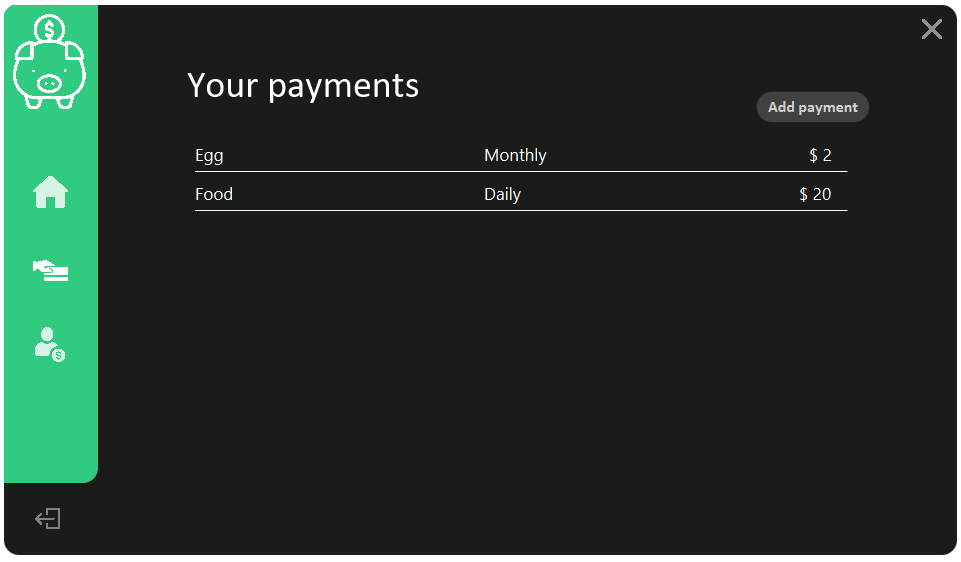
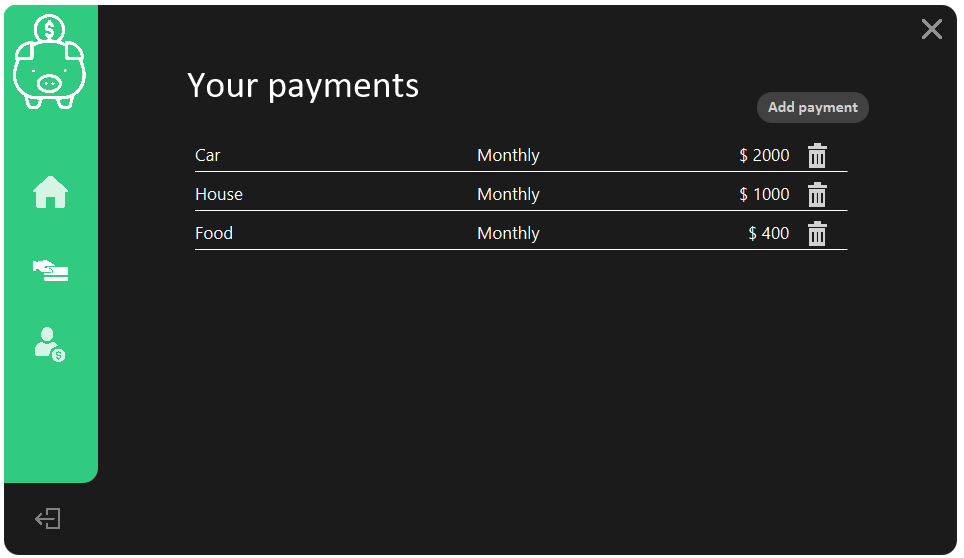
The user can now delete payments. Fixed a bug where it didn't calculate the correct "how much you should save" (it also takes your current balance into account)

diff --git a/src/css/payment.css b/src/css/payment.css
@@ -61,3 +61,12 @@
 .root{
     -fx-background-color: #1b1b1b;
 }
+
+#deletePayment{
+    -fx-opacity: 0.8;
+}
+
+#deletePayment:hover{
+    -fx-opacity: 1;
+    -fx-cursor: hand;
+}

diff --git a/src/UserSettings.java b/src/UserSettings.java
@@ -92,26 +92,6 @@ public class UserSettings {
         return payments;
     }
 
-    public void switchHome() throws IOException {
-        Scene main = new Scene(FXMLLoader.load(getClass().getResource("fxml/MainPage.fxml")));
-        main.getStylesheets().add("css/mainpage.css");
-        main.setFill(javafx.scene.paint.Color.TRANSPARENT);
-        Controller.stage.setScene(main);
-    }
-
-    public void switchPayment() throws IOException {
-        Scene payment = new Scene(FXMLLoader.load(getClass().getResource("fxml/PaymentPage.fxml")));
-        payment.getStylesheets().add("css/payment.css");
-        payment.setFill(javafx.scene.paint.Color.TRANSPARENT);
-        Controller.stage.setScene(payment);
-    }
-
-    public void changeField() {
-        income.setText(String.valueOf(Controller.user.getIncome()));
-        income.setEditable(true);
-        editIncome.setVisible(false);
-        saveIncome.setVisible(true);
-    }
 
     /**
      * Updates the users income.
@@ -143,12 +123,18 @@ public class UserSettings {
     }
 
     public void calculateSaving() throws NumberFormatException{
+        result.setVisible(false);
         resultTitle.setVisible(true);
         int moneyLeft = Controller.user.getIncome()-Controller.user.getMonthlyPayment();
         if(moneyLeft <= 0){
             resultTitle.setText("You don't earn enough money to save up anything.");
         }else{
-            double totalCost = Math.ceil((double) Integer.parseInt(saveUp.getText())/moneyLeft);
+            int balanceSubtract = Integer.parseInt(saveUp.getText())-Controller.user.getBalance();
+            if(balanceSubtract <= 0){
+                resultTitle.setText("You already have enough in your account!");
+                return;
+            }
+            double totalCost = Math.ceil((double) balanceSubtract/moneyLeft*30);
             if(totalCost > 180){
                 result.setText((int) Math.ceil(totalCost/30) + " month(s)");
             } else {
@@ -157,6 +143,27 @@ public class UserSettings {
             resultTitle.setText("It will take you:");
             result.setVisible(true);
         }
+    }
+
+    public void switchHome() throws IOException {
+        Scene main = new Scene(FXMLLoader.load(getClass().getResource("fxml/MainPage.fxml")));
+        main.getStylesheets().add("css/mainpage.css");
+        main.setFill(javafx.scene.paint.Color.TRANSPARENT);
+        Controller.stage.setScene(main);
+    }
+
+    public void switchPayment() throws IOException {
+        Scene payment = new Scene(FXMLLoader.load(getClass().getResource("fxml/PaymentPage.fxml")));
+        payment.getStylesheets().add("css/payment.css");
+        payment.setFill(javafx.scene.paint.Color.TRANSPARENT);
+        Controller.stage.setScene(payment);
+    }
+
+    public void changeField() {
+        income.setText(String.valueOf(Controller.user.getIncome()));
+        income.setEditable(true);
+        editIncome.setVisible(false);
+        saveIncome.setVisible(true);
     }
 
     public void logOut() throws IOException {

diff --git a/src/PaymentCell.java b/src/PaymentCell.java
@@ -2,11 +2,16 @@ import javafx.fxml.FXML;
 import javafx.fxml.FXMLLoader;
 import javafx.scene.control.Label;
 import javafx.scene.control.ListCell;
+import javafx.scene.image.ImageView;
 import javafx.scene.layout.GridPane;
+import org.hibernate.HibernateException;
+import org.hibernate.Session;
+import org.hibernate.Transaction;
 import tables.Payment;
 import tables.paymentType;
 
 import java.io.IOException;
+import java.util.List;
 
 
 public class PaymentCell extends ListCell<Payment> {
@@ -19,6 +24,9 @@ public class PaymentCell extends ListCell<Payment> {
 
     @FXML
     private Label type;
+
+    @FXML
+    private ImageView deletePayment;
 
     @FXML
     private GridPane gridPane;
@@ -41,6 +49,34 @@ public class PaymentCell extends ListCell<Payment> {
                 } catch (IOException ignored) {}
             }
 
+            deletePayment.setOnMouseClicked((e) -> {
+                deletePayment.setOnMouseClicked((p) -> {
+                    try {
+                        p.wait();
+                    } catch (InterruptedException ignored) { }
+                });
+                Session session = MainUI.server.getSession();
+                List<Payment> payments = Controller.user.getPayments();
+                for (int i = 0; i < payments.size(); i++) {
+                    Payment p = payments.get(i);
+                    if(p.getId() == payment.getId()){
+                        Controller.user.deletePayment(i);
+                        Controller.user.setMonthlyPayment(Controller.user.getMonthlyPayment()-updateMonthly(payment));
+                        break;
+                    }
+                }
+
+                try{
+                    Transaction tr = session.beginTransaction();
+                    session.delete(payment);
+                    session.update(Controller.user);
+                    tr.commit();
+                } catch (HibernateException ignored) {
+                }finally {
+                    session.close();
+                }
+            });
+
             name.setText(payment.getName());
             paymentType pt = payment.getType();
             if(pt == paymentType.daily){
@@ -56,6 +92,20 @@ public class PaymentCell extends ListCell<Payment> {
             setText(null);
             setGraphic(gridPane);
         }
+    }
+
+    private int updateMonthly(Payment p){
+        int payments;
+        if(p.getType() == tables.paymentType.daily){
+            payments = 4 * 7 * p.getPrice();
+        }else if(p.getType() == tables.paymentType.quarterly){
+            payments = p.getPrice() / 4;
+        }else if (p.getType() == tables.paymentType.yearly){
+            payments = p.getPrice() / (52/4);
+        } else {
+            payments = p.getPrice();
+        }
+        return payments;
     }
 
 
